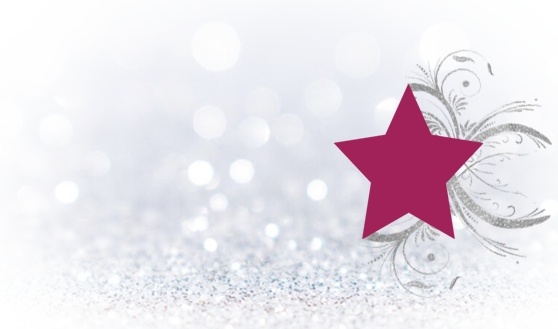
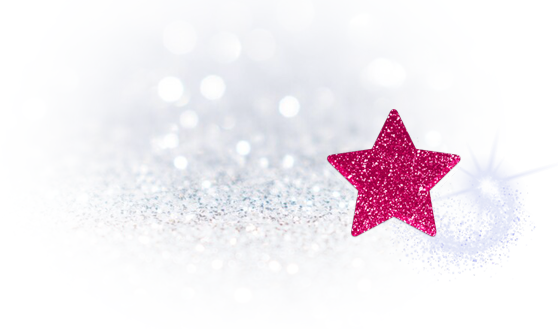
change main

diff --git a/styles/style.css b/styles/style.css
@@ -254,9 +254,6 @@
     background-size: cover;
     color: var(--color-7);
     position: relative;
-    background-image: url('../images/8227109.jpg');
-    background-position: center;
-    background-repeat: no-repeat;
 }
 
   
@@ -320,7 +317,7 @@
   section.portada .content-portada span.fecha {
     font-family: var(--fuente-2);
     font-weight: var(--weight-font-regular);
-    color: var(--color-5);
+    color: var(--color-1);
     display: table;
     white-space: nowrap;
     width: 100%;
@@ -347,7 +344,7 @@
   }
   
   section.portada .content-portada h1 {
-    color: var(--color-2);
+    color: var(--color-1);
     font-family: var(--fuente-1);
     font-weight: var(--weight-font-regular);
     width: 100%;
@@ -358,7 +355,7 @@
   }
   
   section.portada .content-portada h2 {
-    color: var(--color-5);
+    color: var(--color-2);
     font-family: var(--fuente-2);
     font-weight: var(--weight-font-regular);
     width: 100%;
@@ -379,7 +376,8 @@
   section.portada .box-nombres-fecha-portada h1 span {
     font-family: var(--fuente-2);
     font-weight: var(--weight-font-regular);
-    background-color: var(--color-2);
+    background-color: var(--color-2); 
+    
     color: var(--color-1);
     display: inline-block;
     border-radius: 50%;
@@ -396,7 +394,8 @@
   }
   
   section.portada .box-frase-portada p {
-    color: var(--color-5);
+     color: var(--color-1); 
+   
     font-family: var(--fuente-1);
     font-weight: var(--weight-font-regular);
     font-size: 28px;
